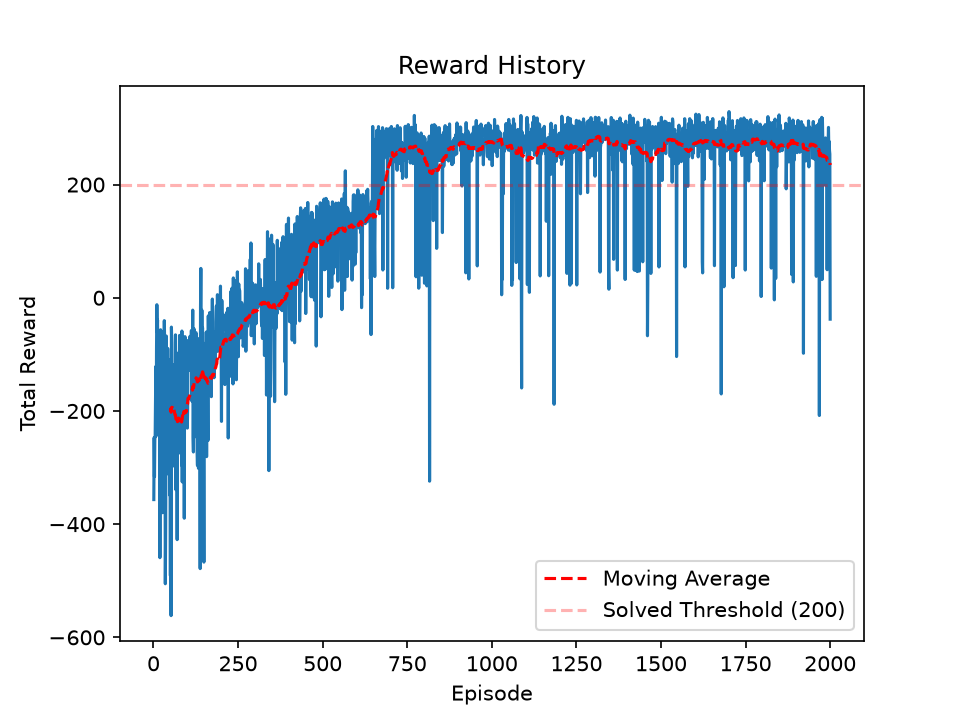
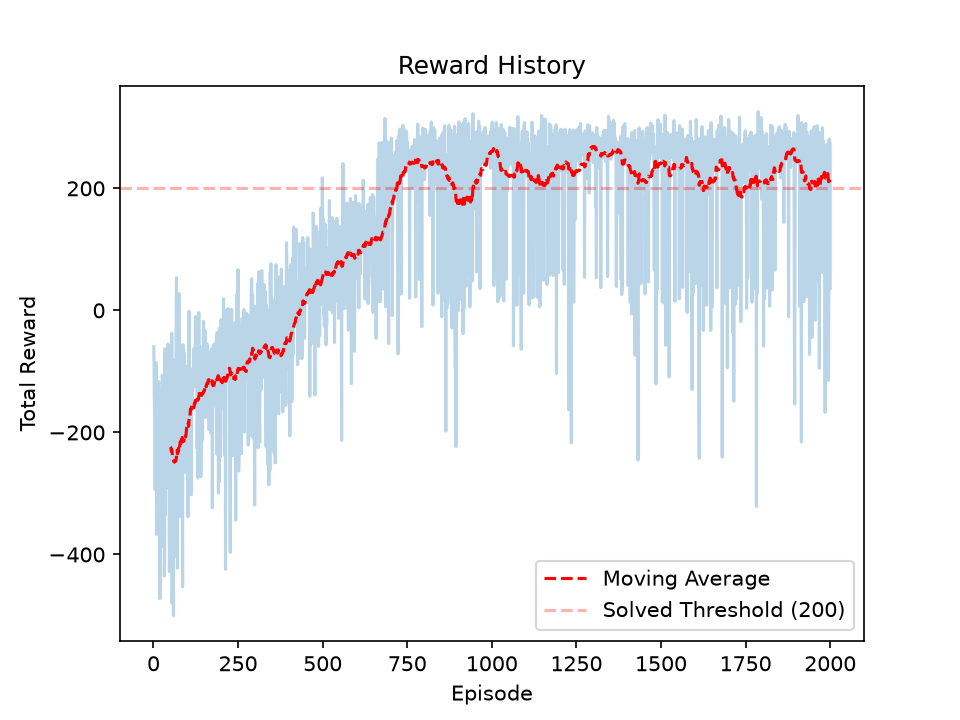
Add before/after training GIFs, saved weights, and new reward plot; update README

diff --git a/lunar_lander_ppo.py b/lunar_lander_ppo.py
@@ -5,6 +5,7 @@ import torch.nn as nn
 import torch.optim as optim
 import torch.nn.functional as F
 import matplotlib.pyplot as plt
+import imageio
 
 class PolicyNetwork(nn.Module):
     def __init__(self, input_dim, output_dim):
@@ -80,7 +81,7 @@ def update_model(model, optimizer, init_log_probs, state, actions, returns):
 
     return loss
 
-def run_episode(env, model, inference=False):
+def run_episode(env, model, inference=False, record=False):
     obs, info = env.reset()
 
     done = False
@@ -90,7 +91,11 @@ def run_episode(env, model, inference=False):
     log_probs = []
     actions = []
     rewards = []
+    frames = []
 
+    if record: 
+        # for rendering the simulation to a gif
+        frames.append(env.render())
 
     while not done:
         # get action from policy network
@@ -102,12 +107,8 @@ def run_episode(env, model, inference=False):
         action_probs = F.softmax(action_logits, dim=-1) # (1, 4)
         action_dist = torch.distributions.Categorical(action_probs)
 
-
         if inference:
-            if cur_state[0][-1] == 1 and cur_state[0][-2] == 1:
-                action = 0
-            else:
-                action = torch.argmax(action_probs).item() # (0, 1, 2, 3)
+            action = torch.argmax(action_probs).item() # (0, 1, 2, 3)
         else:
             action = action_dist.sample().item() # int (0, 1, 2, 3)
 
@@ -117,7 +118,10 @@ def run_episode(env, model, inference=False):
         actions.append(action)
         log_probs.append(F.log_softmax(action_logits, dim=-1).squeeze(0).numpy())
         rewards.append(reward)
-
+        
+        if record:
+            frames.append(env.render())
+        
         obs = next_obs
         episode_length += 1
 
@@ -126,7 +130,7 @@ def run_episode(env, model, inference=False):
 
     discounted_returns = discounted_rewards(np.array(rewards), gamma=0.99)
 
-    return np.array(states), np.array(actions), np.array(log_probs), np.array(rewards), discounted_returns, episode_length
+    return np.array(states), np.array(actions), np.array(log_probs), np.array(rewards), discounted_returns, episode_length, frames
 
 
 def train_model(model, optimizer, env, num_episodes, batch_size=4, num_batch_epochs=5):
@@ -141,7 +145,7 @@ def train_model(model, optimizer, env, num_episodes, batch_size=4, num_batch_epo
     reward_history = []
 
     for episode in range(num_episodes):
-        states, actions, log_probs, rewards, discounted_returns, episode_length = run_episode(env, model)
+        states, actions, log_probs, rewards, discounted_returns, episode_length, _ = run_episode(env, model)
         # states: (T, 8), actions: (T,), discounted_returns: (T,)
         batch_states.append(states)
         batch_actions.append(actions)
@@ -179,7 +183,7 @@ def plot_reward_history(reward_history):
     for i in range(window_size-1, len(reward_history)):
         moving_avg.append(np.mean(reward_history[i-window_size+1:i+1]))
 
-    plt.plot([i for i in range(1, len(reward_history) + 1)], reward_history)
+    plt.plot([i for i in range(1, len(reward_history) + 1)], reward_history, alpha=0.3)
     plt.plot([i for i in range(window_size, len(reward_history) + 1)], moving_avg, color='r', linestyle='--', label='Moving Average')
     plt.xlabel("Episode")
     plt.ylabel("Total Reward")
@@ -202,15 +206,31 @@ def main():
     model = PolicyNetwork(input_dim=8, output_dim=4)
     optimizer = optim.AdamW(model.parameters(), lr=3e-4, weight_decay=1e-4)
 
+    # Look at model performance before training
+    print("Running demo before training...")
+    demo_env = gym.make("LunarLander-v3", render_mode="rgb_array")
+    _, _, _, _, _, _, frames = run_episode(demo_env, model, inference=False, record=True)
+
+    imageio.mimsave('lunar_lander_before_training.gif', frames[::2], duration=40, loop=0)
+
+    demo_env.close()
+
+    # Train the model
     env = gym.make("LunarLander-v3")
 
     reward_history = train_model(model, optimizer, env, num_episodes, batch_size, num_batch_epochs)
+    
+    torch.save(model.state_dict(), "lunar_lander_ppo.pt")
 
     plot_reward_history(reward_history)
-    
-    print("Running demo...")
-    demo_env = gym.make("LunarLander-v3", render_mode="human")
-    run_episode(demo_env, model, inference=True)
+
+    print("Running demo after training...")
+    # Rinning model inference on evironment and getting rgb array to save as a gif
+    demo_env = gym.make("LunarLander-v3", render_mode="rgb_array")
+    _, _, _, _, _, _, frames = run_episode(demo_env, model, inference=True, record=True)
+
+    imageio.mimsave('lunar_lander_after_training.gif', frames[::2], duration=40, loop=0)
+
     demo_env.close()
 
 if __name__ == "__main__":

diff --git a/README.md b/README.md
@@ -2,11 +2,26 @@
 
 Reinforcement learning algorithms written from scratch in PyTorch, with no RL libraries. Gymnasium supplies only the environments. The repo starts with a policy gradient method on CartPole-v1 and ends with PPO on LunarLander-v3.
 
+<table>
+  <tr>
+    <th>Before training</th>
+    <th>After training</th>
+  </tr>
+  <tr>
+    <td><img src="lunar_lander_before_training.gif" alt="Untrained agent on LunarLander-v3" width="400"></td>
+    <td><img src="lunar_lander_after_training.gif" alt="Trained PPO agent on LunarLander-v3" width="400"></td>
+  </tr>
+</table>
+
+The left GIF shows the untrained network with sampled actions. It drifts sideways and hits the ground within about 75 steps. The right GIF shows the trained network with greedy actions. It lands between the flags and comes to rest. Each GIF shows a single episode from the same run as the plot in [Results](#results).
+
 ## Files
 
 - `cartpole_reinforce.py`: Policy gradient with a learned value baseline (actor-critic style) on CartPole-v1. Shared network with policy and value heads, Monte Carlo returns, one update per episode, 1500 episodes, then 3 rendered demo episodes.
-- `lunar_lander_ppo.py`: PPO with a clipped surrogate objective on LunarLander-v3. Trains for 2000 episodes, saves a reward plot, then runs 1 rendered demo episode.
-- `lunar_lander_reward.png`: Reward curve from one training run of `lunar_lander_ppo.py`.
+- `lunar_lander_ppo.py`: PPO with a clipped surrogate objective on LunarLander-v3. Records an episode before training, trains for 2000 episodes, saves the weights and a reward plot, then records an episode after training.
+- `lunar_lander_before_training.gif`, `lunar_lander_after_training.gif`: Episodes recorded by `lunar_lander_ppo.py` before and after training (every second frame).
+- `lunar_lander_reward.png`: Reward curve from the same run.
+- `lunar_lander_ppo.pt`: Trained weights from the same run, saved as a PyTorch `state_dict` for `PolicyNetwork(input_dim=8, output_dim=4)`.
 - `requirements.txt`: Pinned Python dependencies.
 
 ## How to run
@@ -22,7 +37,15 @@ Then:
     pip install -r requirements.txt
     python lunar_lander_ppo.py
 
-When training finishes, the script saves `lunar_lander_reward.png` and opens the plot in a window. The demo episode starts after you close that window.
+The script runs these steps in order:
+
+1. Records one episode with the untrained network to `lunar_lander_before_training.gif`.
+2. Trains for 2000 episodes, printing the 50-episode average reward every 50 episodes.
+3. Saves the weights to `lunar_lander_ppo.pt`.
+4. Saves `lunar_lander_reward.png` and opens the plot in a window.
+5. After you close the plot window, records one episode with the trained network to `lunar_lander_after_training.gif`.
+
+Running the script overwrites the files in the repo.
 
 To run the CartPole script:
 
@@ -39,7 +62,7 @@ All values below come from `lunar_lander_ppo.py`.
 - **Value loss:** MSE against the scaled returns, weight 0.5. No entropy bonus.
 - **Optimizer:** AdamW, lr 3e-4, weight decay 1e-4.
 - **Batching:** 8 episodes per batch, reused for 50 full-batch gradient steps (no minibatches). The batch is then discarded.
-- **Training vs demo:** Training samples actions from the policy. The demo picks the greedy action, except that it forces action 0 (do nothing) when both leg-contact flags are 1.
+- **Action selection:** Training and the before-training GIF sample actions from the policy. The after-training GIF takes the greedy (argmax) action.
 
 ## Results
 
@@ -47,7 +70,7 @@ All values below come from `lunar_lander_ppo.py`.
 
 Settings for this run: batch of 8 episodes, 50 epochs per batch, lr 3e-4, 2000 episodes.
 
-The 50-episode moving average crosses the solved threshold of 200 around episode 680. After that it mostly stays between about 250 and 280, with a dip to about 220 near episode 800. Training samples its actions, so the raw per-episode curve has dips even after the agent has learned to land.
+The 50-episode moving average (dashed red) crosses the solved threshold of 200 around episode 700. After that it mostly stays between about 200 and 265, with dips to about 175 near episode 900 and about 185 near episode 1750. The raw per-episode rewards (light blue) still dip often after the agent has learned to land, because training samples its actions.
 
 Runs are not seeded, so exact numbers vary between runs.
 
@@ -71,7 +94,7 @@ Each row is a single run of an earlier version of the code. Those versions are n
 5. The full clipped objective (the minimum of the clipped and unclipped terms) crossed 200 around episode 950 and stayed between about 210 and 257.
 6. The final settings are the ones in the current code. See Results.
 
-In several runs, the reward jumped by about 100 at once. Each jump matched the agent learning to land and shut off its engines instead of hovering, which collects the landing bonus. The moving average in the Results plot shows a jump like this between episodes 650 and 700.
+In several runs, the reward jumped by about 100 at once. Each jump matched the agent learning to land and shut off its engines instead of hovering, which collects the landing bonus. The moving average in the Results plot shows a jump like this between episodes 650 and 750.
 
 ## Next steps
 
